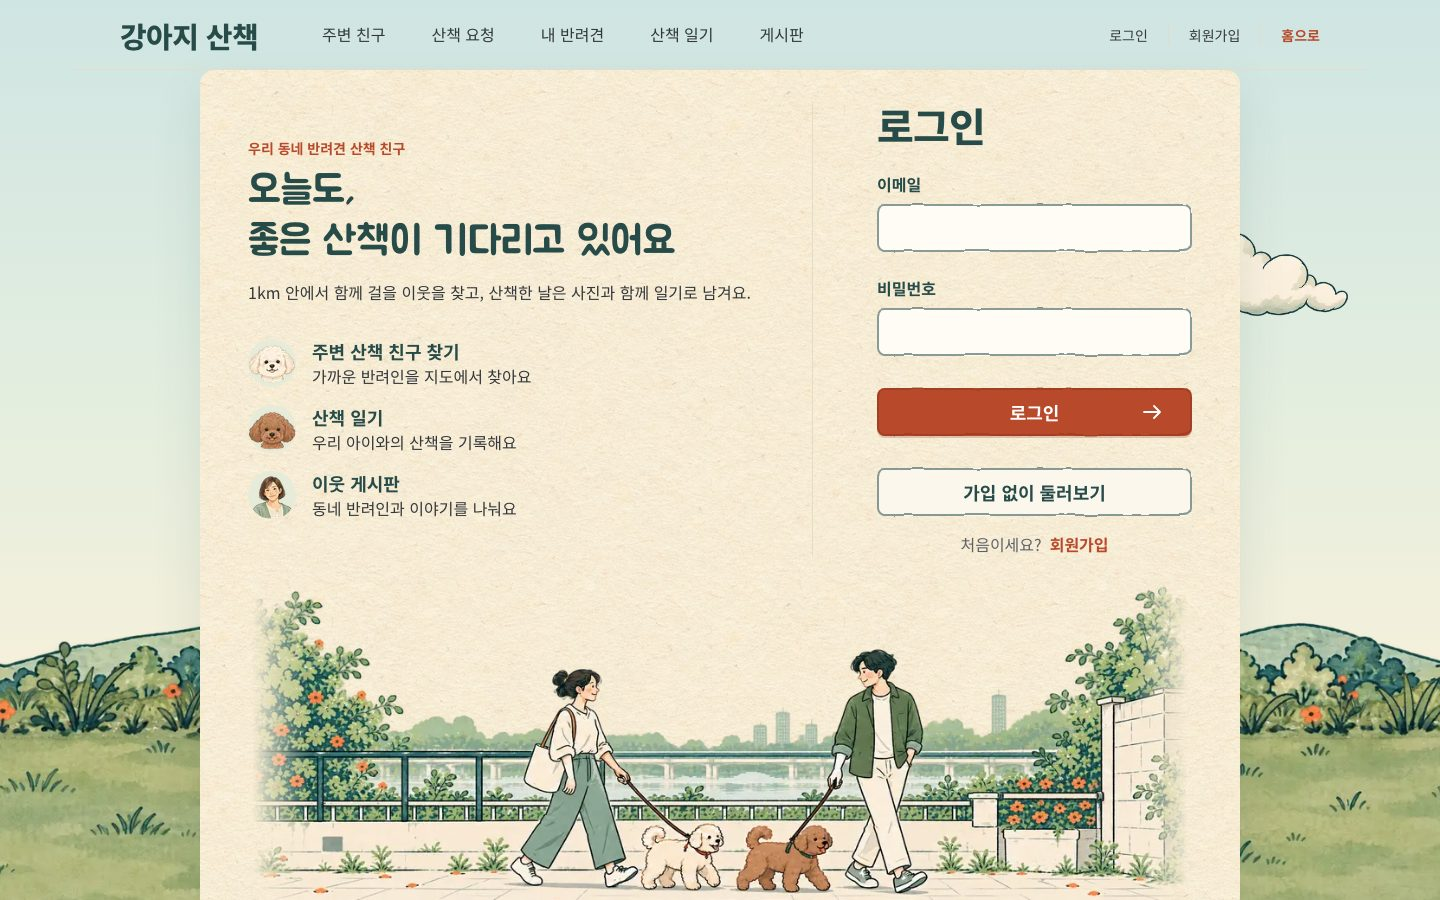
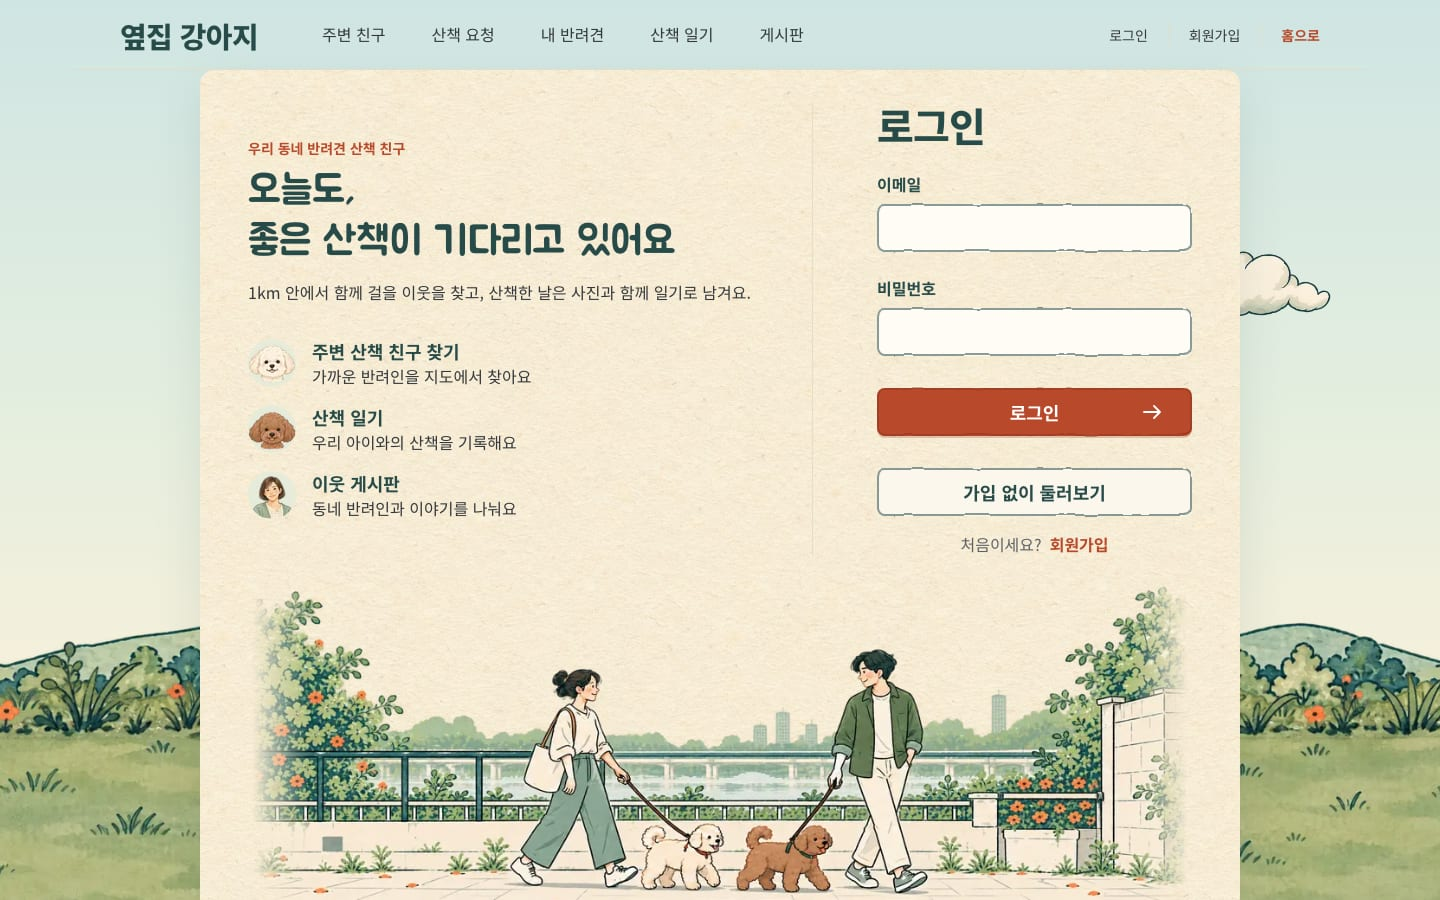
Rename the service to 옆집 강아지 in the header, tab title, intro, login text, READMEs and link preview image, and retake the README screenshots

diff --git a/web/app/_components/site-header.tsx b/web/app/_components/site-header.tsx
@@ -38,7 +38,7 @@ export const SiteHeader = () => {
     <header className={styles.header}>
       <div className={styles.bar}>
         <Link href="/" className={styles.logo}>
-          강아지 산책
+          옆집 강아지
         </Link>
         <MainMenu pendingCount={pendingCount} />
         <div className={styles.account}>
@@ -146,7 +146,7 @@ const GuestHeaderContent = () => {
     <header className={styles.header}>
       <div className={styles.bar}>
         <Link href="/" className={styles.logo}>
-          강아지 산책
+          옆집 강아지
         </Link>
         <MainMenu pendingCount={0} onLockedClick={() => setLoginOpen(true)} />
         <div className={`${styles.account} ${styles.guestLinks}`}>

diff --git a/web/e2e/walk-requests.e2e.ts b/web/e2e/walk-requests.e2e.ts
@@ -243,7 +243,7 @@ test("산책 요청 실시간 알림·재접속 동기화·로그아웃 정리",
     await test.step("모달이 열린 상태의 로그아웃은 알림을 모두 비우고, 재로그인하면 대기 수를 읽는다", async () => {
       await a
         .getByRole("banner")
-        .getByRole("link", { name: "강아지 산책", exact: true })
+        .getByRole("link", { name: "옆집 강아지", exact: true })
         .click();
       const headersB = { Authorization: authorizations[1] };
       // Leave a notice as well as a pending modal to check that both are removed.

diff --git a/web/e2e/chat.e2e.ts b/web/e2e/chat.e2e.ts
@@ -292,7 +292,7 @@ test("1:1 채팅·전송 대기·조회 경쟁·알림·재접속·인증 갱신
     await test.step("채팅방 밖에서는 새 메시지 안내를 누르면 해당 채팅으로 이동한다", async () => {
       await a
         .getByRole("banner")
-        .getByRole("link", { name: "강아지 산책", exact: true })
+        .getByRole("link", { name: "옆집 강아지", exact: true })
         .click();
       await expect(a).toHaveURL("/");
       const content = `밖에서 받은 메시지 ${runId}`;

diff --git a/web/e2e/guest-home.e2e.ts b/web/e2e/guest-home.e2e.ts
@@ -318,7 +318,7 @@ test("로그인·앱 안 이동·로그아웃 뒤에도 들판 배경은 같은 
 
     await page
       .getByRole("banner")
-      .getByRole("link", { name: "강아지 산책", exact: true })
+      .getByRole("link", { name: "옆집 강아지", exact: true })
       .click();
     await expect(page).toHaveURL("/");
     await expect(main.getByText(`${account.nickname}님, 안녕하세요`)).toBeVisible();

diff --git a/web/app/_components/intro.tsx b/web/app/_components/intro.tsx
@@ -12,7 +12,7 @@ import styles from "./intro.module.css";
 import { INTRO_SEEN_KEY } from "./intro-seen";
 
 const INTRO_DURATION_MS = 6000;
-const INTRO_TITLE = "강아지 산책에 오신 걸 환영해요";
+const INTRO_TITLE = "옆집 강아지에 오신 걸 환영해요";
 
 export const Intro = () => {
   const [dismissed, setDismissed] = useState(false);

diff --git a/web/app/_components/login-form.tsx b/web/app/_components/login-form.tsx
@@ -80,7 +80,7 @@ export const LoginForm = ({
         >
           좋은 산책은 좋은 이웃에서 시작돼요.
           <br />
-          강아지 산책에서 가까운 산책 친구를 만나보세요.
+          옆집 강아지에서 가까운 산책 친구를 만나보세요.
         </p>
       )}
       <form

diff --git a/web/e2e/map.e2e.ts b/web/e2e/map.e2e.ts
@@ -90,7 +90,7 @@ test.beforeEach(async ({ page }) => {
 const goHome = async (page: Page) => {
   await page
     .getByRole("banner")
-    .getByRole("link", { name: "강아지 산책", exact: true })
+    .getByRole("link", { name: "옆집 강아지", exact: true })
     .click();
   await expect(page).toHaveURL("/");
 };

diff --git a/web/app/layout.tsx b/web/app/layout.tsx
@@ -24,7 +24,7 @@ const jua = Jua({
   variable: "--font-display",
 });
 
-const title = "강아지 산책";
+const title = "옆집 강아지";
 const description = "함께 산책할 반려인을 찾는 서비스";
 
 export const metadata: Metadata = {

diff --git a/README.md b/README.md
@@ -1,4 +1,4 @@
-# 강아지 산책
+# 옆집 강아지
 
 **동네 반려인과 산책 친구를 이어 주는 서비스.**
 지도에서 1km 안의 이웃을 찾아 산책을 요청하고, 수락되면 실시간으로 대화합니다. 산책한 날은 사진과 함께 일기로 남기고, 게시판에서 이웃과 이야기를 나눕니다.

diff --git a/api/README.md b/api/README.md
@@ -1,3 +1,3 @@
-# 강아지 산책 API
+# 옆집 강아지 API
 
 실행·검사 방법은 [루트 README.md](../README.md)를 참고한다.
